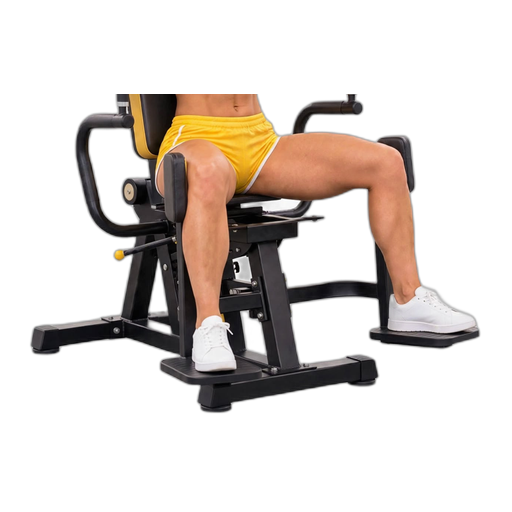
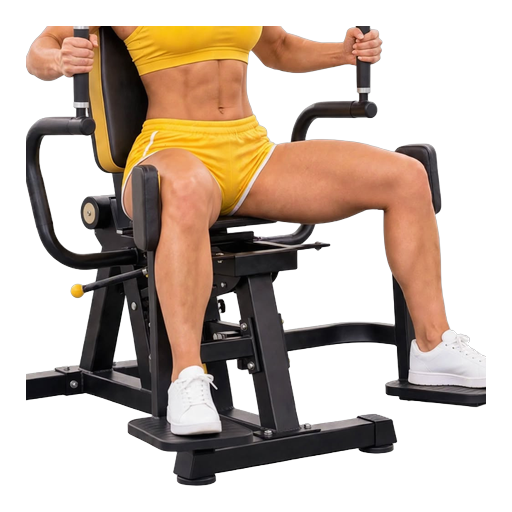
Version 1.7.83 - Abductions et Adductions recadrées
- Cadrage serré sur la partie basse, buste gardé jusqu'à la poitrine ; détourage refait
- Adductions décalée pour garder le pied gauche entier

Claude-Session: https://claude.ai/code/session_01D2bERS7WBZgExNoVRodtwC

diff --git a/sw.js b/sw.js
@@ -2,7 +2,7 @@
 // APP_VERSION doit être incrémenté à chaque release (en même temps que
 // manifest.json) : le navigateur ne réinstalle le service worker que si
 // le contenu de ce fichier change.
-const APP_VERSION = '1.7.82';
+const APP_VERSION = '1.7.83';
 // 1.7.64 (co-auteur : Claude) : production (…/suivi-fitness/) et test (…/suivi-fitness/dev/) sont sur le même
 // domaine et partagent le stockage des caches : chaque version nomme ses caches d'après son dossier et ne
 // supprime que les siens (plus les anciens caches sans dossier, d'avant la 1.7.64).

diff --git a/CHANGELOG.md b/CHANGELOG.md
@@ -7,6 +7,13 @@ et ce projet respecte [Semantic Versioning](https://semver.org/spec/v2.0.0.html)
 
 ---
 
+## [1.7.83] - 2026-11-14
+### 🖼 Abductions et Adductions recadrées (co-auteur : Claude)
+- Icônes **Abductions machine** et **Adductions machine** refaites : cadrage serré sur la partie basse (jambes, coussins, pieds), buste gardé jusqu'à la poitrine au lieu d'être coupé à la taille ; détourage refait (un trou dans une chaussure d'Abductions corrigé). Adductions décalée pour garder le pied gauche entier.
+- `manifest.json` et `APP_VERSION` (`sw.js`) alignés sur 1.7.83.
+
+---
+
 ## [1.7.82] - 2026-11-14
 ### 📱 En-tête remonté de 10 px de plus (co-auteur : Claude)
 - Application installée, écran avec caméra en haut : le nom de l'app commence **juste sous la zone de la caméra** (10 px dessous en 1.7.81). Tout le contenu remonte de 10 px.
